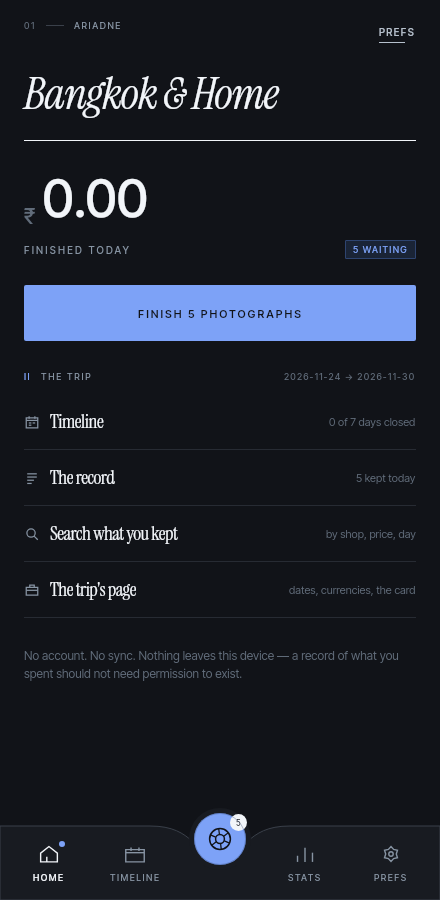
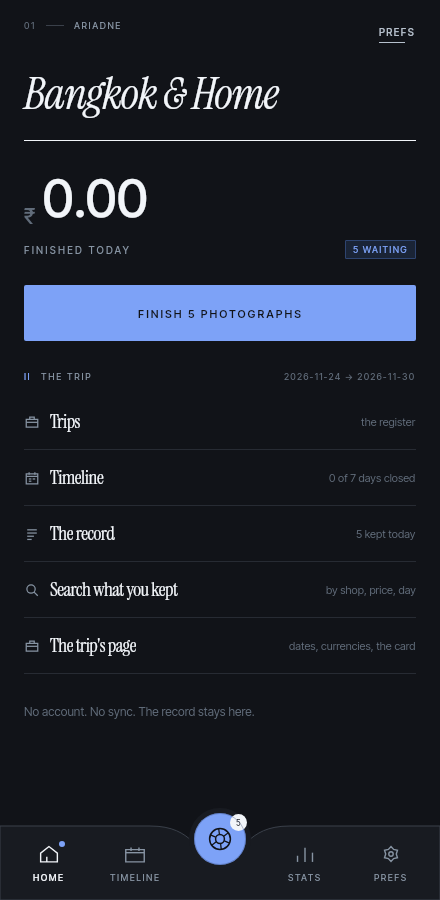
Note the register, the fold and the library import in the Windows run notes

diff --git a/RUN-WINDOWS.md b/RUN-WINDOWS.md
@@ -113,6 +113,20 @@ You should now see `ariadne.db`. Two things worth knowing:
 
 ---
 
+## 5b. What is new in this build
+
+- **The register.** `Home → Trips` lists every trip on the device. Tap one to
+  make it the active journey; a photograph taken now lands in it. One trip is
+  open at a time, deliberately: a photo belongs to exactly one journey.
+- **Fold the margin.** On a wide window the glyph at the top-left seam folds the
+  left margin away and brings it back. It is a view preference, so it is not
+  remembered across restarts.
+- **From the library.** On the capture page, "From the library" opens the Windows
+  file dialog instead of the camera. The image takes exactly the same path as a
+  photograph - it joins the queue and meets the same two taps at Nightfall.
+- **Trimmed copy.** The pages say less. Where a paragraph was explaining the
+  product, there is now a figure, a glyph or a rule.
+
 ## 6. The checks that need no Gradle
 
 These are what I run here, and they are much faster than a full build:
